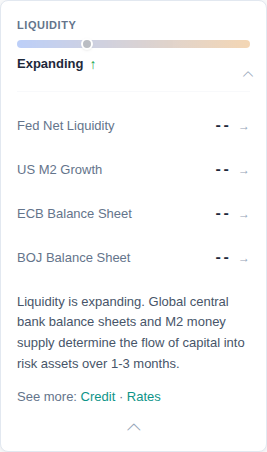
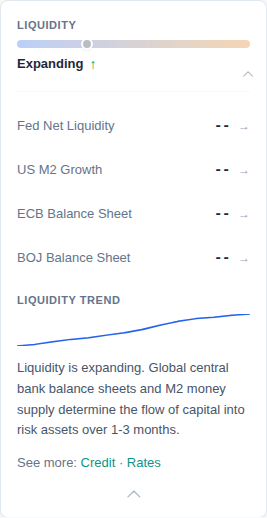
Fix design issues per review feedback
- Add 14-week liquidity sparkline SVG to expanded Liquidity card
- Add sparkline CSS styles (label + SVG container)
- Compute sparkline points in dashboard route from conditions history
- Update screenshot script with 14 weekly mock history entries
- Add 5 new screenshots: Risk/Policy/Crypto expanded (desktop-1280),
  Liquidity expanded with sparkline (desktop-1280), mobile-375 expanded

Addresses design review on #328

diff --git a/screenshots-us328.spec.js b/screenshots-us328.spec.js
@@ -26,37 +26,22 @@ const MOCK_CACHE = JSON.stringify({
   updated_at: new Date().toISOString(),
 });
 
+// 14 weekly entries so sparkline renders fully
 const MOCK_HISTORY = JSON.stringify({
-  '2026-03-18': {
-    quadrant: 'Goldilocks',
-    dimensions: {
-      quadrant: { state: 'Goldilocks', growth_composite: 0.6, inflation_composite: -0.4 },
-      liquidity: { state: 'Expanding', score: 0.82 },
-      risk: { state: 'Calm', score: 1 },
-      policy: { stance: 'Neutral', direction: 'Easing' },
-    },
-    asset_expectations: [],
-  },
-  '2026-02-18': {
-    quadrant: 'Goldilocks',
-    dimensions: {
-      quadrant: { state: 'Goldilocks', growth_composite: 0.45, inflation_composite: -0.25 },
-      liquidity: { state: 'Expanding', score: 0.6 },
-      risk: { state: 'Calm', score: 1 },
-      policy: { stance: 'Neutral', direction: 'Easing' },
-    },
-    asset_expectations: [],
-  },
-  '2026-01-18': {
-    quadrant: 'Reflation',
-    dimensions: {
-      quadrant: { state: 'Reflation', growth_composite: 0.3, inflation_composite: 0.1 },
-      liquidity: { state: 'Neutral', score: 0.1 },
-      risk: { state: 'Normal', score: 2 },
-      policy: { stance: 'Neutral', direction: 'Paused' },
-    },
-    asset_expectations: [],
-  },
+  '2026-03-18': { quadrant: 'Goldilocks', dimensions: { quadrant: { state: 'Goldilocks', growth_composite: 0.6, inflation_composite: -0.4 }, liquidity: { state: 'Expanding', score: 0.82 }, risk: { state: 'Calm', score: 1 }, policy: { stance: 'Neutral', direction: 'Easing' } }, asset_expectations: [] },
+  '2026-03-11': { quadrant: 'Goldilocks', dimensions: { quadrant: { state: 'Goldilocks', growth_composite: 0.55, inflation_composite: -0.35 }, liquidity: { state: 'Expanding', score: 0.78 }, risk: { state: 'Calm', score: 1 }, policy: { stance: 'Neutral', direction: 'Easing' } }, asset_expectations: [] },
+  '2026-03-04': { quadrant: 'Goldilocks', dimensions: { quadrant: { state: 'Goldilocks', growth_composite: 0.52, inflation_composite: -0.30 }, liquidity: { state: 'Expanding', score: 0.72 }, risk: { state: 'Calm', score: 1 }, policy: { stance: 'Neutral', direction: 'Easing' } }, asset_expectations: [] },
+  '2026-02-25': { quadrant: 'Goldilocks', dimensions: { quadrant: { state: 'Goldilocks', growth_composite: 0.50, inflation_composite: -0.28 }, liquidity: { state: 'Expanding', score: 0.68 }, risk: { state: 'Calm', score: 1 }, policy: { stance: 'Neutral', direction: 'Easing' } }, asset_expectations: [] },
+  '2026-02-18': { quadrant: 'Goldilocks', dimensions: { quadrant: { state: 'Goldilocks', growth_composite: 0.45, inflation_composite: -0.25 }, liquidity: { state: 'Expanding', score: 0.60 }, risk: { state: 'Calm', score: 1 }, policy: { stance: 'Neutral', direction: 'Easing' } }, asset_expectations: [] },
+  '2026-02-11': { quadrant: 'Goldilocks', dimensions: { quadrant: { state: 'Goldilocks', growth_composite: 0.42, inflation_composite: -0.22 }, liquidity: { state: 'Neutral', score: 0.48 }, risk: { state: 'Normal', score: 2 }, policy: { stance: 'Neutral', direction: 'Paused' } }, asset_expectations: [] },
+  '2026-02-04': { quadrant: 'Reflation', dimensions: { quadrant: { state: 'Reflation', growth_composite: 0.38, inflation_composite: -0.15 }, liquidity: { state: 'Neutral', score: 0.35 }, risk: { state: 'Normal', score: 2 }, policy: { stance: 'Neutral', direction: 'Paused' } }, asset_expectations: [] },
+  '2026-01-28': { quadrant: 'Reflation', dimensions: { quadrant: { state: 'Reflation', growth_composite: 0.35, inflation_composite: -0.05 }, liquidity: { state: 'Neutral', score: 0.25 }, risk: { state: 'Normal', score: 2 }, policy: { stance: 'Neutral', direction: 'Paused' } }, asset_expectations: [] },
+  '2026-01-21': { quadrant: 'Reflation', dimensions: { quadrant: { state: 'Reflation', growth_composite: 0.32, inflation_composite: 0.05 }, liquidity: { state: 'Neutral', score: 0.18 }, risk: { state: 'Normal', score: 2 }, policy: { stance: 'Neutral', direction: 'Paused' } }, asset_expectations: [] },
+  '2026-01-18': { quadrant: 'Reflation', dimensions: { quadrant: { state: 'Reflation', growth_composite: 0.30, inflation_composite: 0.10 }, liquidity: { state: 'Neutral', score: 0.10 }, risk: { state: 'Normal', score: 2 }, policy: { stance: 'Neutral', direction: 'Paused' } }, asset_expectations: [] },
+  '2026-01-11': { quadrant: 'Reflation', dimensions: { quadrant: { state: 'Reflation', growth_composite: 0.28, inflation_composite: 0.12 }, liquidity: { state: 'Neutral', score: 0.05 }, risk: { state: 'Normal', score: 2 }, policy: { stance: 'Neutral', direction: 'Paused' } }, asset_expectations: [] },
+  '2026-01-04': { quadrant: 'Reflation', dimensions: { quadrant: { state: 'Reflation', growth_composite: 0.25, inflation_composite: 0.15 }, liquidity: { state: 'Neutral', score: -0.02 }, risk: { state: 'Normal', score: 2 }, policy: { stance: 'Neutral', direction: 'Paused' } }, asset_expectations: [] },
+  '2025-12-28': { quadrant: 'Reflation', dimensions: { quadrant: { state: 'Reflation', growth_composite: 0.22, inflation_composite: 0.18 }, liquidity: { state: 'Contracting', score: -0.10 }, risk: { state: 'Normal', score: 3 }, policy: { stance: 'Restrictive', direction: 'Paused' } }, asset_expectations: [] },
+  '2025-12-21': { quadrant: 'Reflation', dimensions: { quadrant: { state: 'Reflation', growth_composite: 0.20, inflation_composite: 0.20 }, liquidity: { state: 'Contracting', score: -0.15 }, risk: { state: 'Normal', score: 3 }, policy: { stance: 'Restrictive', direction: 'Paused' } }, asset_expectations: [] },
 });
 
 const SCREENSHOTS_DIR = 'screenshots/us328';
@@ -117,6 +102,47 @@ test.describe('US-323.1 Homepage Screenshots', () => {
     await page.waitForTimeout(400);
     const card = page.locator('#dim-liquidity');
     await card.screenshot({ path: `${SCREENSHOTS_DIR}/desktop-1280-liquidity-expanded.png` });
+  });
+
+  test('desktop-1280-risk-expanded', async ({ page }) => {
+    await page.setViewportSize({ width: 1280, height: 900 });
+    await page.goto(BASE + '/', { waitUntil: 'networkidle' });
+    await page.waitForTimeout(500);
+    await page.click('#dim-risk-toggle');
+    await page.waitForTimeout(400);
+    const card = page.locator('#dim-risk');
+    await card.screenshot({ path: `${SCREENSHOTS_DIR}/desktop-1280-risk-expanded.png` });
+  });
+
+  test('desktop-1280-policy-expanded', async ({ page }) => {
+    await page.setViewportSize({ width: 1280, height: 900 });
+    await page.goto(BASE + '/', { waitUntil: 'networkidle' });
+    await page.waitForTimeout(500);
+    await page.click('#dim-policy-toggle');
+    await page.waitForTimeout(400);
+    const card = page.locator('#dim-policy');
+    await card.screenshot({ path: `${SCREENSHOTS_DIR}/desktop-1280-policy-expanded.png` });
+  });
+
+  test('desktop-1280-crypto-expanded', async ({ page }) => {
+    await page.setViewportSize({ width: 1280, height: 900 });
+    await page.goto(BASE + '/', { waitUntil: 'networkidle' });
+    await page.waitForTimeout(500);
+    await page.click('#dim-crypto-toggle');
+    await page.waitForTimeout(400);
+    const card = page.locator('#dim-crypto');
+    await card.screenshot({ path: `${SCREENSHOTS_DIR}/desktop-1280-crypto-expanded.png` });
+  });
+
+  test('mobile-375-card-expanded', async ({ page }) => {
+    await page.setViewportSize({ width: 375, height: 812 });
+    await page.goto(BASE + '/', { waitUntil: 'networkidle' });
+    await page.waitForTimeout(500);
+    // Expand liquidity card on mobile
+    await page.click('#dim-liquidity-toggle');
+    await page.waitForTimeout(400);
+    const card = page.locator('#dim-liquidity');
+    await card.screenshot({ path: `${SCREENSHOTS_DIR}/mobile-375-liquidity-expanded.png` });
   });
 
   test('desktop-1280-movers-strip', async ({ page }) => {

diff --git a/signaltrackers/templates/index.html b/signaltrackers/templates/index.html
@@ -328,6 +328,14 @@
                         <span class="dimension-metric-row__arrow">→</span>
                     </a>
                 </div>
+                {% if liq_sparkline_points %}
+                <div class="dimension-card__sparkline" aria-label="Liquidity score trend over recent history">
+                    <div class="dimension-card__sparkline-label">LIQUIDITY TREND</div>
+                    <svg class="dimension-card__sparkline-svg" viewBox="0 0 100 32" preserveAspectRatio="none">
+                        <polyline points="{{ liq_sparkline_points }}" fill="none" stroke="var(--liquidity-favorable)" stroke-width="1.5" stroke-linecap="round" stroke-linejoin="round" />
+                    </svg>
+                </div>
+                {% endif %}
                 <p class="dimension-card__interp">
                     Liquidity is {{ _liq_state | lower }}. Global central bank balance sheets and M2 money supply determine the flow of capital into risk assets over 1-3 months.
                 </p>

diff --git a/signaltrackers/static/css/components/conditions-summary.css b/signaltrackers/static/css/components/conditions-summary.css
@@ -411,6 +411,24 @@ a.dimension-metric-row:hover {
     color: #94A3B8;
 }
 
+/* Sparkline (Liquidity expanded card) */
+.dimension-card__sparkline {
+    margin: 0.75rem 0;
+}
+.dimension-card__sparkline-label {
+    font-size: 0.6875rem;
+    font-weight: 700;
+    text-transform: uppercase;
+    letter-spacing: 0.05em;
+    color: #64748B;
+    margin-bottom: 0.375rem;
+}
+.dimension-card__sparkline-svg {
+    display: block;
+    width: 100%;
+    height: 32px;
+}
+
 /* Interpretive text */
 .dimension-card__interp {
     font-size: 0.8125rem;

diff --git a/signaltrackers/dashboard.py b/signaltrackers/dashboard.py
@@ -1965,6 +1965,37 @@ def index():
         pass
     ctx['quadrant_trajectory'] = trajectory
 
+    # Liquidity sparkline points for expanded card (last 14 weekly entries)
+    liq_sparkline_points = ''
+    try:
+        if not history:
+            history = get_conditions_history()
+        if history:
+            sorted_dates = sorted(history.keys())
+            liq_scores = []
+            for dt_str in sorted_dates:
+                entry = history[dt_str]
+                dims = entry.get('dimensions', {})
+                liq_dim = dims.get('liquidity', {})
+                sc = liq_dim.get('score')
+                if sc is not None:
+                    liq_scores.append(sc)
+            # Take last 14 entries (weekly cadence approximation from daily snapshots)
+            liq_scores = liq_scores[-14:]
+            if len(liq_scores) >= 2:
+                min_s = min(liq_scores)
+                max_s = max(liq_scores)
+                rng = max_s - min_s if max_s != min_s else 1.0
+                pts = []
+                for i, s in enumerate(liq_scores):
+                    x = round(i / (len(liq_scores) - 1) * 100, 1)
+                    y = round((1 - (s - min_s) / rng) * 32, 1)
+                    pts.append(f'{x},{y}')
+                liq_sparkline_points = ' '.join(pts)
+    except Exception:
+        pass
+    ctx['liq_sparkline_points'] = liq_sparkline_points
+
     # Recession probability summary for Risk expand card
     try:
         recession = get_recession_probability()
